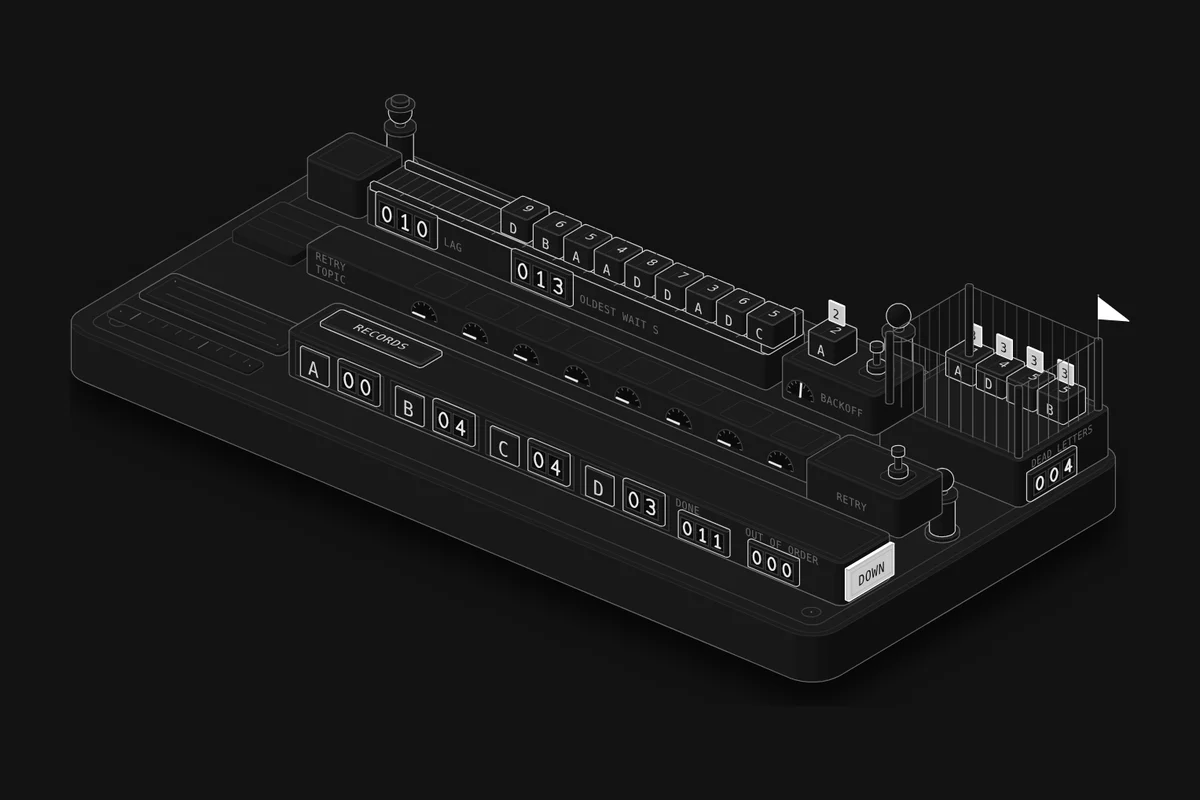
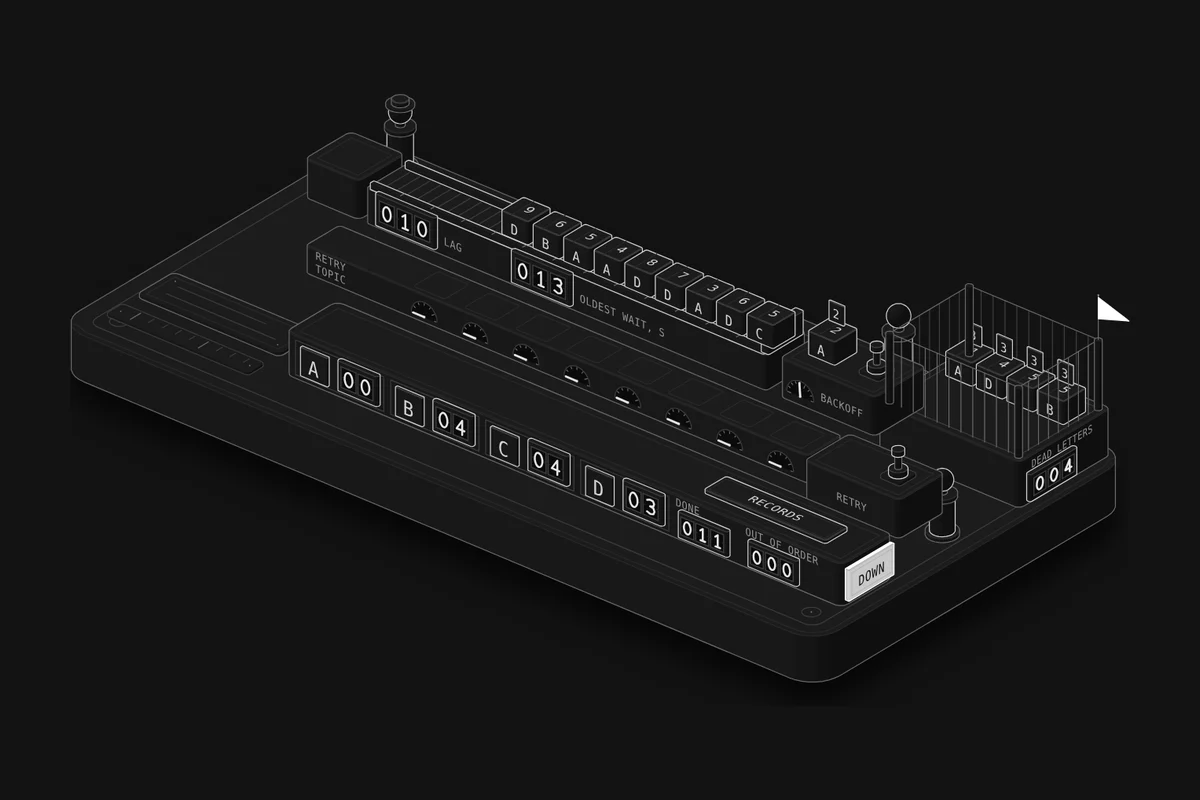
Lesson 70: fix review findings (OUT OF ORDER counter, lit key, Watch warm-ups, +N tag, labels)
- OUT OF ORDER counts what the stat counts (records set back); oldest wait is whole seconds on both.
- Lit means what went wrong: DOWN, the cage pennant, a record's tab. Attempt tags and the worked parcel are unlit.
- Budget and redrive Watches ride out the outage in the warm-up and say so; their outcomes show by 7 s.
- The overflow pallet is replaced by a +N tag at the conveyor's tail.
- RECORDS plaque moved off drawer A; OLDEST WAIT, S; BACKOFF kept in English on the ES machine (ESPERA clashed).
- Aria label: the status board is on the ledger's right end.

Claude-Session: https://claude.ai/code/session_01S5z2gCvevbrGU3fXgpGDmP

diff --git a/src/lessons/poison/figure.ts b/src/lessons/poison/figure.ts
@@ -4,7 +4,8 @@
 //   its head takes the parcel at the front and calls downstream, the records ledger at the front of the room;
 //   a parcel that fails waits on the worker's desk through its backoff (in place), or goes onto the retry shelf in
 //   front of the conveyor, where a second worker takes it again when its timer runs out (a retry topic);
-//   a parcel out of attempts drops into the dead-letter cage at the back right; redrive sends the cage back to the dock.
+//   a parcel out of attempts drops into the dead-letter cage at the back right; redrive sends the cage back to the dock;
+//   when the line is longer than the conveyor, a "+N" tag stands at its tail for the parcels not drawn.
 // Built with the Anatomy kit (MIT, github.com/wheresryan22/anatomy) and the shared workbench parts.
 import * as k from "../../../workbench/kit.mjs";
 import { basePlate, rulerStrip, labelPlate, digitCounter, person, meter, pennant, sign, plaque, faceText, litFill } from "../../../workbench/parts.mjs";
@@ -30,8 +31,8 @@ export const LANE_Z = BED_H + 0.4;
 export const SLOTS = 13;
 export const SLOT_X = Array.from({ length: SLOTS }, (_, i) => 25.5 - 9 * i);
 
-export const PALLET = { x: -106, y: -68, w: 18, d: 18, r: 1 };
-export const PILE = { xs: [-101, -93], ys: [-63, -55], z: 2.8, step: 6.4, layers: 3 };
+// The "+N" tag at the tail: it takes the last slot when the line doesn't fit.
+export const MORE = { x: SLOT_X[SLOTS - 1], y: LANE_Y, z: LANE_Z };
 
 const WD = { x: 34, y: -94, w: 28, d: 18, r: 1.4 };
 const DESK_H = 10;
@@ -81,17 +82,18 @@ function plate() {
     + rulerStrip(P, { x: -106, y: -12, w: 42, d: 6, r: 1 });
 }
 
-// The producer's dock at the tail, with the producer behind it, and the overflow pallet beside it.
+// The producer's dock at the tail, with the producer behind it.
 function dock() {
   const out = [person(P, [PROD.x + PROD.w / 2, PROD.y - 8, 0], { scale: 0.72, hat: "cap" })];
   out.push(S(k.slabOf(PROD, 0, PROD_H, P, 3, 0.5), { tone: "mid" }));
   out.push(L(k.planOutline(k.insetPlan(PROD, 2), PROD_H, P), { tone: "faint" }));
   return out.join("");
 }
-function pallet() {
-  const out = [S(k.slabOf(PALLET, 0, 2.5, P, 3, 0.3), { tone: "lo", crease: "none" })];
-  out.push(L([PALLET.y + 5, PALLET.y + 9, PALLET.y + 13].map((y) => k.lineOnTop([PALLET.x + 1, y], [PALLET.x + PALLET.w - 1, y], 2.5, P)).join(""), { tone: "faint" }));
-  return out.join("");
+// The tag at the tail for parcels the conveyor can't show: a card standing in the last slot (the live code sets it).
+function moreTag() {
+  const c = { x: MORE.x - 4.4, y: MORE.y + 3, w: 8.8, h: 6.6 };
+  return `<g data-more style="display:none">${S(k.slabOf({ x: c.x, y: c.y - 0.8, w: c.w, d: 0.8, r: 0.2 }, MORE.z, c.h, P, 2, 0.2), { tone: "hi", crease: "lo" })}`
+    + faceText(P, [MORE.x, c.y, MORE.z + 2], "+0", { size: 3.4, tone: "hi", anchor: "middle", attr: "data-more-text" }) + `</g>`;
 }
 
 // The partition: one roller conveyor. Rollers across the top, a rail along each side, slot marks on the front rail, an
@@ -108,7 +110,7 @@ function conveyor() {
   out.push(digitCounter(P, { x: -84, y: front, z: 1.8, count: 3, w: 4.4, h: 5.4, gap: 0.8, pad: 1.4, name: "lag" }));
   out.push(word(-65, front, 2.8, "LAG"));
   out.push(digitCounter(P, { x: -44, y: front, z: 1.8, count: 3, w: 4.4, h: 5.4, gap: 0.8, pad: 1.4, name: "oldest" }));
-  out.push(word(-25, front, 2.8, t("OLDEST WAIT S", "ESPERA MÁS LARGA S")));
+  out.push(word(-25, front, 2.8, t("OLDEST WAIT, S", "ESPERA MÁS LARGA, S")));
   return out.join("");
 }
 
@@ -125,7 +127,7 @@ function workerDesk() {
   out.push(deskTop(WD, "main"));
   const front = WD.y + WD.d;
   out.push(meter(P, { x: WD.x + 6, y: front, z: 2.2, r: 4, ticks: 8, name: "backoff", value: 0 }));
-  out.push(word(WD.x + 12, front, 3.4, t("BACKOFF", "ESPERA")));
+  out.push(word(WD.x + 12, front, 3.4, "BACKOFF"));
   return out.join("");
 }
 function retryDesk() {
@@ -148,7 +150,7 @@ function shelf() {
   return out.join("");
 }
 
-// Downstream's status panel on the ledger's right end: OK, FLAKY or DOWN (lit).
+// Downstream's status panel on the ledger's right end: OK, FLAKY or DOWN (lit: a failure).
 function status() {
   const at = { x: LEDGER.x + LEDGER.w + 1.2, y: LEDGER_FRONT - 1, z: 1.6, w: LEDGER.d - 2, h: 8, face: "x", posts: false, size: 3.6 };
   return `<g data-status="ok">${sign(P, { ...at, text: "OK" })}</g>`
@@ -188,7 +190,8 @@ function cageFront() {
 function ledger() {
   const out = [S(k.slabOf(LEDGER, 0, LEDGER_H, P, 3, 0.6), { tone: "mid" })];
   out.push(L(k.planOutline(k.insetPlan(LEDGER, 2.2), LEDGER_H, P), { tone: "faint" }));
-  out.push(plaque(P, { x: LEDGER.x + 4, y: LEDGER.y + 3, z: LEDGER_H, w: 30, d: 8, text: t("RECORDS", "REGISTROS"), size: 3.4 }));
+  // the title plaque sits on the top past the drawers, clear of where done parcels land
+  out.push(plaque(P, { x: LEDGER.x + 3 + 28 * 4 + 4, y: LEDGER.y + 5, z: LEDGER_H, w: 36, d: 8, text: t("RECORDS", "REGISTROS"), size: 3.4 }));
   const f = LEDGER_FRONT;
   DRAWER_X.forEach((x, i) => {
     out.push(L(k.faceRectY(P, x, x + 26, f, 1, LEDGER_H - 1), { tone: "lo" }));
@@ -216,8 +219,8 @@ export function parcelSvg() {
   out.push(faceText(P, [0.8, 0.9, h], "0", { face: "top", size: 3.6, tone: "hi", anchor: "middle", attr: "data-num" }));
   out.push(faceText(P, [0, BOX.d / 2, 1.2], "A", { size: 3.6, tone: "hi", anchor: "middle", attr: "data-key" }));
   out.push(`<g data-tag style="display:none">`);
-  out.push(S(k.slabOf({ x: -3.6, y: -3.4, w: 4.4, d: 0.5, r: 0.1 }, h, 5, P, 1, 0.1), { tone: "hi", crease: "none", lit: true }).replace("data-lit", "data-lit data-lit-fill"));
-  out.push(faceText(P, [-1.4, -2.9, h + 1.2], "2", { size: 3.2, tone: "on-lit", anchor: "middle", attr: "data-tries" }));
+  out.push(S(k.slabOf({ x: -3.6, y: -3.4, w: 4.4, d: 0.5, r: 0.1 }, h, 5, P, 1, 0.1), { tone: "hi", crease: "lo" }));
+  out.push(faceText(P, [-1.4, -2.9, h + 1.2], "2", { size: 3.2, tone: "hi", anchor: "middle", attr: "data-tries" }));
   out.push(`</g>`);
   return out.join("");
 }
@@ -227,8 +230,8 @@ export function buildFigure() {
     width: WIDTH,
     height: HEIGHT,
     label: t(
-      "A sorting room on a base plate. At the back left a producer stands at a dock that drops numbered parcels onto the tail of one long roller conveyor, the partition; each parcel shows a customer letter, A to D, and that customer's version number. At the head, on the right, a worker takes the parcel at the front onto a desk and calls downstream. Downstream is the records ledger at the front of the room: one drawer per customer showing the version its record holds, a tab that lights when a record goes back to an older version, and counters for updates done and updates that arrived out of order. A status board behind the ledger reads OK, FLAKY or DOWN. A parcel that fails waits on the worker's desk while a backoff meter runs down, or goes onto the retry shelf in front of the conveyor, over a timer, where a second worker takes it again. A parcel out of attempts drops into the dead-letter cage at the back right. Counters on the conveyor show the lag and how long the oldest parcel has waited.",
-      "Una sala de clasificación sobre una placa base. Atrás a la izquierda, un productor está en un muelle que deja paquetes numerados al final de una sola cinta de rodillos larga, la partición; cada paquete muestra una letra de cliente, de la A a la D, y el número de versión de ese cliente. En la cabeza, a la derecha, un trabajador toma el paquete del frente, lo pone en su escritorio y llama al servicio de destino. El servicio de destino es el libro de registros al frente de la sala: un cajón por cliente con la versión que guarda su registro, una pestaña que se enciende cuando un registro vuelve a una versión más vieja, y contadores de actualizaciones hechas y de actualizaciones que llegaron fuera de orden. Un tablero detrás del libro dice OK, INESTABLE o CAÍDO. Un paquete que falla espera en el escritorio del trabajador mientras baja un medidor de espera, o pasa al estante de reintentos delante de la cinta, sobre un temporizador, donde un segundo trabajador lo vuelve a tomar. Un paquete sin intentos cae en la jaula de mensajes muertos, atrás a la derecha. Contadores en la cinta muestran el lag y cuánto lleva esperando el paquete más antiguo.",
+      "A sorting room on a base plate. At the back left a producer stands at a dock that drops numbered parcels onto the tail of one long roller conveyor, the partition; each parcel shows a customer letter, A to D, and that customer's version number. At the head, on the right, a worker takes the parcel at the front onto a desk and calls downstream. Downstream is the records ledger at the front of the room: one drawer per customer showing the version its record holds, a tab that lights when a record goes back to an older version, and counters for updates done and updates that arrived out of order. A status board on the ledger's right end reads OK, FLAKY or DOWN. A parcel that fails waits on the worker's desk while a backoff meter runs down, or goes onto the retry shelf in front of the conveyor, over a timer, where a second worker takes it again. A parcel out of attempts drops into the dead-letter cage at the back right. Counters on the conveyor show the lag and how long the oldest parcel has waited; when the line is longer than the conveyor, a tag at its tail counts the parcels not shown.",
+      "Una sala de clasificación sobre una placa base. Atrás a la izquierda, un productor está en un muelle que deja paquetes numerados al final de una sola cinta de rodillos larga, la partición; cada paquete muestra una letra de cliente, de la A a la D, y el número de versión de ese cliente. En la cabeza, a la derecha, un trabajador toma el paquete del frente, lo pone en su escritorio y llama al servicio de destino. El servicio de destino es el libro de registros al frente de la sala: un cajón por cliente con la versión que guarda su registro, una pestaña que se enciende cuando un registro vuelve a una versión más vieja, y contadores de actualizaciones hechas y de actualizaciones que llegaron fuera de orden. Un tablero en el extremo derecho del libro dice OK, INESTABLE o CAÍDO. Un paquete que falla espera en el escritorio del trabajador mientras baja un medidor de espera, o pasa al estante de reintentos delante de la cinta, sobre un temporizador, donde un segundo trabajador lo vuelve a tomar. Un paquete sin intentos cae en la jaula de mensajes muertos, atrás a la derecha. Contadores en la cinta muestran el lag y cuánto lleva esperando el paquete más antiguo; cuando la fila no cabe en la cinta, una etiqueta en su final cuenta los paquetes que no se ven.",
     ),
     body: [
       plate(),
@@ -238,8 +241,7 @@ export function buildFigure() {
       workerDesk(),
       `<g data-layer="back"></g>`,
       cageFront(),
-      pallet(),
-      `<g data-layer="pile"></g>`,
+      moreTag(),
       shelf(),
       retryWorker(),
       retryDesk(),
@@ -251,4 +253,4 @@ export function buildFigure() {
   });
 }
 
-export const GEOMETRY = { SLOT_X, LANE_Y, LANE_Z, SLOTS, PROD_SPOT, PILE, DESK_SPOT, RDESK_SPOT, CAGE_SPOTS, SHELF_X, SHELF_Y, SHELF_Z, DRAWER_SPOT, BOX };
+export const GEOMETRY = { SLOT_X, LANE_Y, LANE_Z, SLOTS, PROD_SPOT, DESK_SPOT, RDESK_SPOT, CAGE_SPOTS, SHELF_X, SHELF_Y, SHELF_Z, DRAWER_SPOT, BOX };

diff --git a/src/lessons/poison/page.ts b/src/lessons/poison/page.ts
@@ -126,7 +126,8 @@ const EXPERIMENTS = [
       "Eight attempts wait " + WAITS8.replace(/, /g, " + ") + " = " + W8 + " s in all, longer than the outage, so the head waits it out, nothing good is lost, and the line catches up afterwards; the cost is a little extra waiting, since the head sleeps through backoffs that end after downstream is back. But the malformed message gets the same " + W8 + " s, and the line stands still for all of it. One retry policy can't suit both kinds of failure, so tell them apart: an error that retrying can't fix (a message that won't parse, fails validation, or is refused as invalid) goes to the DLQ on the first failure, and timeouts, 503s and refused connections get the long backoff. With that split the outage costs no good messages and the malformed one about one attempt. Spring for Apache Kafka's DefaultErrorHandler, for example, doesn't retry deserialization and conversion errors by default.",
       "Ocho intentos esperan " + WAITS8.replace(/, /g, " + ") + " = " + W8 + " s en total, más que la caída, así que la cabeza la aguanta, no se pierde nada bueno y la fila se pone al día después; el costo es un poco más de espera, porque la cabeza duerme esperas que terminan después de que el destino ya volvió. Pero el mensaje malformado recibe los mismos " + W8 + " s, y la fila se queda quieta todo ese tiempo. Una sola política de reintentos no sirve para los dos tipos de fallo, así que distínguelos: un error que reintentar no arregla (un mensaje que no se puede leer, que no pasa la validación o que se rechaza por inválido) va a la DLQ al primer fallo, y los tiempos límite (timeouts), los 503 y las conexiones rechazadas reciben la espera larga. Con esa separación, la caída no cuesta mensajes buenos y el malformado cuesta cerca de un intento. El DefaultErrorHandler de Spring for Apache Kafka, por ejemplo, no reintenta por defecto los errores de deserialización y de conversión.",
     ),
-    watch: { ...BASE, attempts: "8", speed: 3, script: [{ dt: 3, type: "outage" }, { dt: 123, type: "poison", key: 0 }] },
+    // the outage is ridden out in the warm-up (8 attempts: nothing good in the cage); the malformed one comes 6 s in
+    watch: { ...BASE, attempts: "8", speed: 3, warm: 140, script: [{ dt: -114, type: "outage" }, { dt: 6, type: "poison", key: 0 }] },
   },
   {
     id: "topic",
@@ -162,7 +163,8 @@ const EXPERIMENTS = [
       "A redrive puts the messages at the tail, behind everything that arrived since. By then each customer has had newer updates, so each redriven one is older than its record and, written blindly, sets it back. It stays wrong until that customer's next update, which for an order that has already shipped may never come. A version check makes the replay harmless: keep the version with the record and skip an update older than it (a conditional write). That works when each message carries the whole state; if messages are increments, skipping loses them, and you have to hold that customer's later messages until the parked ones are fixed. Fix the cause before you redrive: a malformed message sent back unchanged fails again. The version should come from the producer, not a clock (lesson 61, Clocks & Last-Write-Wins).",
       "Un reenvío (redrive) pone los mensajes al final, detrás de todo lo que llegó desde entonces. Para ese momento cada cliente ya tuvo actualizaciones más nuevas, así que cada reenviada es más vieja que su registro y, escrita a ciegas, lo hace retroceder. Queda mal hasta la siguiente actualización de ese cliente, que para un pedido ya enviado puede no llegar nunca. Una verificación de versión hace inofensivo el reenvío: guarda la versión con el registro y omite una actualización más vieja (una escritura condicional). Eso sirve cuando cada mensaje lleva el estado completo; si los mensajes son incrementos, omitirlos los pierde, y tienes que retener los mensajes siguientes de ese cliente hasta que se arreglen los apartados. Arregla la causa antes de reenviar: un mensaje malformado que vuelve sin cambios falla otra vez. La versión debería venir del productor, no de un reloj (lección 61, Relojes y última escritura gana).",
     ),
-    watch: { ...BASE, speed: 3, script: [{ dt: 3, type: "outage" }, { dt: 93, type: "redrive" }] },
+    // the outage fills the cage in the warm-up; the redrive comes 6 s in, a minute after downstream is back
+    watch: { ...BASE, speed: 3, warm: 100, script: [{ dt: -84, type: "outage" }, { dt: 6, type: "redrive" }] },
   },
 ];
 
@@ -198,13 +200,13 @@ export default defineLesson({
     plate: {
       title: t("Sorting room", "Sala de clasificación"),
       keys: [
-        { mark: "lit", label: t("A parcel being worked; DOWN on the status board; a record's tab when it goes back to an older version", "Un paquete en proceso; CAÍDO en el tablero; la pestaña de un registro cuando vuelve a una versión más vieja") },
+        { mark: "lit", label: t("What went wrong: DOWN on the status board; the cage's pennant when a parcel lands in it; a record's tab when it goes back to an older version", "Lo que salió mal: CAÍDO en el tablero; el banderín de la jaula cuando cae un paquete en ella; la pestaña de un registro cuando vuelve a una versión más vieja") },
         { mark: "raised", label: t("Parcels: version on top, customer in front, attempts on a tag once one has failed; a crossed band marks a malformed one", "Paquetes: versión arriba, cliente al frente, intentos en una etiqueta si ya falló; una banda cruzada marca uno malformado") },
         { mark: "flat", label: t("The conveyor, one partition: the tail at the dock, the head at the worker's desk", "La cinta, una partición: el final en el muelle, la cabeza en el escritorio del trabajador") },
       ],
       caption: t(
-        "Times are illustrative and round, slowed down to watch: a parcel takes about 1 s to work (0.6 to 1.4 s), a failed call comes back in " + FAIL_SECS + " s, and the wait after a failure starts at " + backoff(1) + " s and doubles up to " + backoff(9) + " s. Retrying in place, a failed parcel stays on the desk while the BACKOFF meter runs down, and nothing behind it moves. With a retry topic it goes onto the shelf over a timer and the line moves on; the retry worker takes it when the timer runs out. A parcel out of attempts drops into the dead-letter cage. Each ledger drawer shows the version its record holds; its tab lights when an older version lands after a newer one. Counters: LAG (parcels not yet done with), OLDEST WAIT, DEAD LETTERS, DONE and OUT OF ORDER.",
-        "Los tiempos son ilustrativos y redondos, en cámara lenta para poder verlos: un paquete tarda cerca de 1 s en procesarse (de 0.6 a 1.4 s), una llamada fallida vuelve en " + FAIL_SECS + " s, y la espera después de un fallo empieza en " + backoff(1) + " s y se duplica hasta " + backoff(9) + " s. Reintentando en su lugar, un paquete fallido se queda en el escritorio mientras baja el medidor de ESPERA, y nada de lo que hay detrás se mueve. Con un topic de reintentos pasa al estante sobre un temporizador y la fila sigue; el trabajador de reintentos lo toma cuando vence el temporizador. Un paquete sin intentos cae en la jaula de mensajes muertos. Cada cajón del libro muestra la versión que guarda su registro; su pestaña se enciende cuando una versión más vieja llega después de una más nueva. Contadores: LAG (paquetes todavía sin terminar), ESPERA MÁS LARGA, MENSAJES MUERTOS, HECHOS y FUERA DE ORDEN.",
+        "Times are illustrative and round, slowed down to watch: a parcel takes about 1 s to work, a failed call comes back in " + FAIL_SECS + " s, and the wait after a failure starts at " + backoff(1) + " s and doubles up to " + backoff(9) + " s. Retrying in place, a failed parcel stays on the desk while the BACKOFF meter runs down, and nothing behind it moves. With a retry topic it goes onto the shelf over a timer and the line moves on; the retry worker takes it when the timer runs out. A parcel out of attempts drops into the dead-letter cage. Each ledger drawer shows the version its record holds; its tab lights when an older version lands after a newer one. A tag at the conveyor's tail counts parcels that don't fit. Counters: LAG (parcels not yet done with), OLDEST WAIT in seconds, DEAD LETTERS, DONE and OUT OF ORDER.",
+        "Los tiempos son ilustrativos y redondos, en cámara lenta para poder verlos: un paquete tarda cerca de 1 s en procesarse, una llamada fallida vuelve en " + FAIL_SECS + " s, y la espera después de un fallo empieza en " + backoff(1) + " s y se duplica hasta " + backoff(9) + " s. Reintentando en su lugar, un paquete fallido se queda en el escritorio mientras baja el medidor BACKOFF, y nada de lo que hay detrás se mueve. Con un topic de reintentos pasa al estante sobre un temporizador y la fila sigue; el trabajador de reintentos lo toma cuando vence el temporizador. Un paquete sin intentos cae en la jaula de mensajes muertos. Cada cajón del libro muestra la versión que guarda su registro; su pestaña se enciende cuando una versión más vieja llega después de una más nueva. Una etiqueta al final de la cinta cuenta los paquetes que no caben. Contadores: LAG (paquetes todavía sin terminar), ESPERA MÁS LARGA en segundos, MENSAJES MUERTOS, HECHOS y FUERA DE ORDEN.",
       ),
       stage: { "data-sorting-room": "" },
       label: t("Poison message simulation. Space pauses or resumes.", "Simulación de mensajes envenenados. Espacio pausa o reanuda."),
@@ -212,7 +214,7 @@ export default defineLesson({
     svg: buildFigure(),
     stats: [
       ["lag", t("Lag", "Lag")],
-      ["oldest", t("Oldest wait", "Espera más larga"), "0.0 s"],
+      ["oldest", t("Oldest wait", "Espera más larga"), "0 s"],
       ["done", t("Done", "Hechos")],
       ["retries", t("Retries", "Reintentos")],
       ["dead", t("Dead letters", "Mensajes muertos")],

diff --git a/src/lessons/poison/live.ts b/src/lessons/poison/live.ts
@@ -1,19 +1,22 @@
 // @ts-nocheck: live code in the style of the other lessons; shared helpers come from src/runtime and src/lib.
 // The sorting room in the browser: runs the model, eases parcels toward where it has them (conveyor, desks, retry
-// shelf, cage, the ledger drawer they update), and answers the controls. mount() gets the build-time data from
+// shelf, cage, the ledger drawer they update; a "+N" tag at the tail for parcels past the conveyor), and answers the
+// controls. mount() gets the build-time data from
 // page.ts (projection, geometry, the parcel drawing) and root, the <wb-lesson>.
 import { translateAlong, depthOf } from "../../../workbench/vendor-anatomy/kit/iso-kit.mjs";
 import * as WB from "../../runtime/wb";
 import { L, T } from "../../runtime/wb";
 import { show, setLit, playPause } from "../../runtime/dom";
 import { lerp } from "../../lib/tween";
-import { makeSim, backoff } from "./sim";
+import { makeSim, backoff, OUTAGE } from "./sim";
 
 export default function mount({ P, G, PARCEL_SVG }, root) {
   const { stage, svg } = root.figure;
   const q = (s) => svg.querySelector(s);
   const NS = "http://www.w3.org/2000/svg";
-  const layers = { back: q('[data-layer="back"]'), pile: q('[data-layer="pile"]'), mid: q('[data-layer="mid"]'), front: q('[data-layer="front"]') };
+  const layers = { back: q('[data-layer="back"]'), mid: q('[data-layer="mid"]'), front: q('[data-layer="front"]') };
+  const more = q("[data-more]"), moreText = q("[data-more-text]");
+  let moreShown = -1;
   const counters = Object.fromEntries(["lag", "oldest", "dead", "done", "stale", "rec0", "rec1", "rec2", "rec3"].map((n) => [n, WB.counter(svg, n, P)]));
   const backoffMeter = WB.meter(svg, "backoff", P);
   const dueMeters = G.SHELF_X.map((_, i) => WB.meter(svg, "due" + i, P));
@@ -58,13 +61,14 @@ export default function mount({ P, G, PARCEL_SVG }, root) {
   // The first run opens a few seconds into an outage (as any run would after "Outage"), so the first frame shows the
   // cage filling and the line backing up; Start over and every setting begin from a quiet line.
   let first = true;
-  function restart(script = []) {
+  // warm: how far in the run opens (a Watch whose moment comes late opens later, with its first events in the warm-up)
+  function restart(script = [], warm = WARM) {
     for (const id of [...recs.keys()]) drop(id);
     const opening = first ? [{ dt: -12, type: "outage" }] : [];
     first = false;
-    model = makeSim(modelCfg([...opening, ...script].map((s) => ({ ...s, t: WARM + s.dt }))), seed);
+    model = makeSim(modelCfg([...opening, ...script].map((s) => ({ ...s, t: warm + s.dt }))), seed);
     seed = (seed * 7 + 3) % 9973 + 1;
-    clock = WARM; note = null; lastDead = -9; lastOk = { main: -9, retry: -9 };
+    clock = warm; note = null; lastDead = -9; lastOk = { main: -9, retry: -9 };
     model.runTo(clock);
     logAt = model.log.length;
     paint(0, true);
@@ -115,18 +119,16 @@ export default function mount({ P, G, PARCEL_SVG }, root) {
     scan();
     for (const r of recs.values()) r.seen = false;
     const line = model.line, w = model.worker, rw = model.rworker;
-    // the head on the desk while the worker has it; the rest on the conveyor, then the overflow pallet
+    // the head on the desk while the worker has it; the rest on the conveyor; past it, a "+N" tag in the last slot
     let i0 = 0;
-    if (w.m && line[0] === w.m) { place(w.m, G.DESK_SPOT, "back", w.phase === "work", w.m.tries > 1 || w.phase === "wait" ? w.m.tries : 0); i0 = 1; }
-    for (let i = i0; i < line.length; i++) {
-      const j = i - i0;
-      if (j < G.SLOTS) { place(line[i], [G.SLOT_X[j], G.LANE_Y, G.LANE_Z], "back", false, line[i].tries); continue; }
-      const k = j - G.SLOTS, layer = Math.floor(k / 4), c = k % 4;
-      if (layer < G.PILE.layers) place(line[i], [G.PILE.xs[c % 2], G.PILE.ys[Math.floor(c / 2)], G.PILE.z + layer * G.PILE.step], "pile", false, line[i].tries);
-    }
+    if (w.m && line[0] === w.m) { place(w.m, G.DESK_SPOT, "back", false, w.m.tries > 1 || w.phase === "wait" ? w.m.tries : 0); i0 = 1; }
+    const rest = line.length - i0, fits = rest <= G.SLOTS ? rest : G.SLOTS - 1;
+    for (let j = 0; j < fits; j++) place(line[i0 + j], [G.SLOT_X[j], G.LANE_Y, G.LANE_Z], "back", false, line[i0 + j].tries);
+    const over = rest - fits;
+    if (over !== moreShown) { moreShown = over; show(more, over > 0); if (over > 0) moreText.textContent = "+" + over; }
     const shelf = [...model.shelf].sort((a, b) => a.since - b.since);
     shelf.slice(0, G.SHELF_X.length).forEach((s, k) => place(s.m, [G.SHELF_X[k], G.SHELF_Y, G.SHELF_Z], "mid", false, s.m.tries));
-    if (rw.m) place(rw.m, G.RDESK_SPOT, "mid", rw.phase === "work", rw.m.tries);
+    if (rw.m) place(rw.m, G.RDESK_SPOT, "mid", false, rw.m.tries);
     model.dlq.slice(-G.CAGE_SPOTS.length).forEach((m, n) => place(m, G.CAGE_SPOTS[n], "back", false, m.tries));
 
     // parcels the model no longer holds were done: they fly to their customer's drawer and fade
@@ -174,9 +176,10 @@ export default function mount({ P, G, PARCEL_SVG }, root) {
 
     const st = model.st, oldest = model.oldestWait();
     counters.lag.setClamped(line.length); counters.oldest.setClamped(Math.round(oldest));
-    counters.dead.setClamped(model.dlq.length); counters.done.setClamped(st.done); counters.stale.setClamped(st.stale + st.skipped);
+    // OUT OF ORDER counts what the stat counts: older versions written over newer ones (skips are the stat's suffix)
+    counters.dead.setClamped(model.dlq.length); counters.done.setClamped(st.done); counters.stale.setClamped(st.stale);
     stat("lag", line.length);
-    stat("oldest", oldest < 10 ? oldest.toFixed(1) + " s" : Math.round(oldest) + " s");
+    stat("oldest", Math.round(oldest) + " s");
     stat("done", st.done);
     stat("retries", st.retries);
     const good = model.dlq.filter((m) => !m.bad).length;
@@ -217,7 +220,15 @@ export default function mount({ P, G, PARCEL_SVG }, root) {
   root.on("watch", (w) => {
     for (const key of ["rate", "flaky", "attempts", "mode", "parse", "stale"]) set(key, String(w[key]), true);
     set("speed", String(w.speed || 1));
-    restart(w.script || []);
+    const warm = w.warm || WARM;
+    restart(w.script || [], warm);
+    // a Watch that opens after an outage says so: the outage itself happened in the warm-up
+    const out = (w.script || []).find((s) => s.type === "outage" && s.dt < 0);
+    if (out) {
+      const ago = Math.round(-out.dt - OUTAGE), n = model.dlq.length;
+      tell(clock, "a " + OUTAGE + " s outage ended " + ago + " s ago · " + n + (n === 1 ? " good parcel" : " good parcels") + " in the cage",
+        "una caída de " + OUTAGE + " s terminó hace " + ago + " s · " + n + (n === 1 ? " paquete bueno" : " paquetes buenos") + " en la jaula", 6);
+    }
     wake();
   });
 
